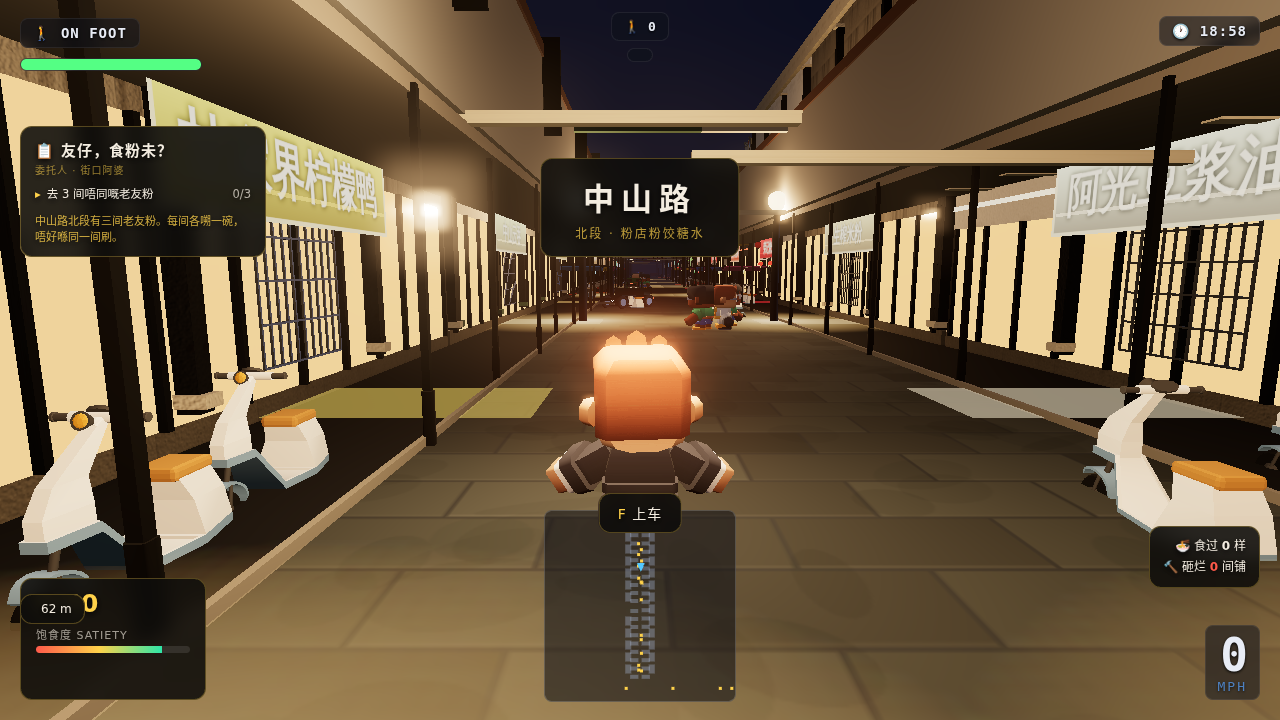
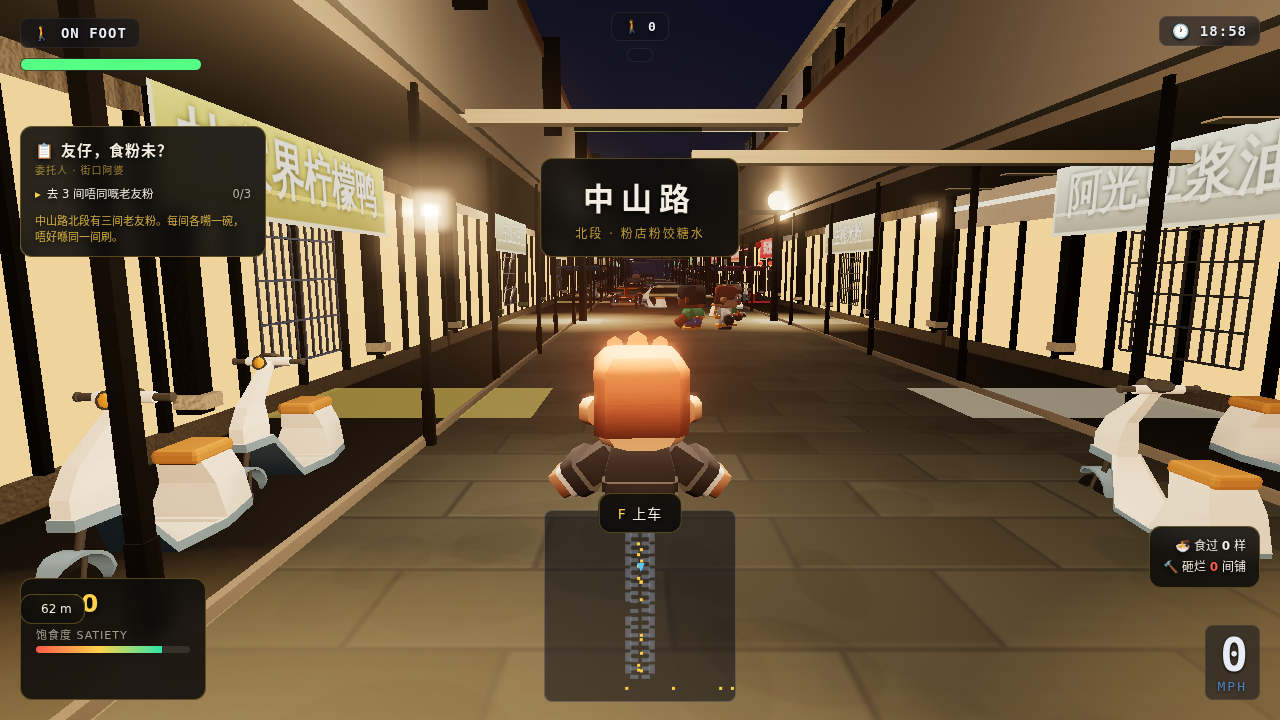
Put the driver in the car, the scooters along the street, and space the crowd
The review rejected the traffic and the carjacking pictures again, and each of
its four complaints had a real cause behind it.

The scooter was parked across the street. A scooter is nearly two metres long;
laid across the carriageway it reached from the columns to the shopfronts,
and its handlebars were inside the columns. They are parked along the street
now, under the arcade, on the raised pavement — the walkway is a step up from
the carriageway, and a scooter standing with its wheels in that step is a
scooter floating.

The driver was not sitting. The rig's mixer was only ever advanced by update(),
and update() was only called while the character was on foot, so the driving
pose was selected and then never played: the rig stood in the bind pose
inside the car for as long as you drove. There is a tick() now, for advancing
the mixer without changing the clip.

And the pose it should play is not 'drive' — in this model 'drive' is a
leaning-forward run. The model also ships 'wheelchair-sit', which is the one
with the hips in a chair and the legs forward. A car seat is a chair.

The glasshouse is glass. It was a near-black metallic material with no
environment to reflect, which rendered as a black slab: every car on the
street read as an unfinished box, and the driver read as a head embedded in
the bodywork. It is tinted and actually transparent now, so you can see the
person sitting behind the windscreen. The near-black paint is out of the
[…]

diff --git a/src/nanning/scenery.ts b/src/nanning/scenery.ts
@@ -553,26 +553,28 @@ async function mountPolyLanterns(scene: THREE.Scene, city: NanningCity): Promise
  */
 async function mountPolyEbikes(scene: THREE.Scene, city: NanningCity): Promise<void> {
   const WARM = new Set(['fuji', 'zhongshan-fenjiao', 'rongji', 'hengzhou']);
-  const spots: { x: number; z: number; heading: number }[] = [];
+  const spots: { x: number; z: number; heading: number; y?: number }[] = [];
+  // Parked along the street, not across it. A scooter is nearly two metres
+  // long: laid across the carriageway it reached from the columns to the
+  // shopfronts, and its handlebars were inside the columns.
+  const heading = Math.PI / 2;
+  // Under the arcade, clear of the columns, on the raised pavement.
+  const PARK_X = STREET_HALF + 0.95;
+  const PARK_Y = ARCADE_RAISE;
   for (const unit of city.shops) {
     if (!WARM.has(unit.def.id) || unit.nightOnly) continue;
-    // Kerb on the same side as the shop (nx points from shop into the street,
-    // so -nx * STREET_HALF is the near kerb).
-    const x = -unit.nx * (STREET_HALF + 1.15);
-    // Parked along +Z; flip 180° on the west kerb so noses face the same way.
-    const heading = unit.nx < 0 ? Math.PI / 2 : -Math.PI / 2;
-    spots.push({ x, z: unit.z - 1.1, heading });
-    spots.push({ x, z: unit.z + 1.1, heading });
+    // The same side as the shop: nx points from the shop into the street, so
+    // -nx is the near kerb.
+    const x = -unit.nx * PARK_X;
+    spots.push({ x, z: unit.z - 1.1, heading, y: PARK_Y });
+    spots.push({ x, z: unit.z + 1.1, heading, y: PARK_Y });
   }
-  // Extra pairs along both kerbs so mid-street night framing is not empty.
+  // Extra pairs along both sides so mid-street framing is not empty.
   for (const side of [-1, 1] as const) {
-    // Under the arcade, not in the traffic lane: the columns are at the
-    // kerb line and a scooter parked at the kerb was standing inside them.
-    const x = side * (STREET_HALF + 1.15);
-    const heading = side > 0 ? Math.PI / 2 : -Math.PI / 2;
+    const x = side * PARK_X;
     for (let z = STREET_Z0 + 25; z < STREET_Z1 - 25; z += 45) {
-      spots.push({ x, z: z - 0.9, heading });
-      spots.push({ x, z: z + 0.9, heading });
+      spots.push({ x, z: z - 0.9, heading, y: PARK_Y });
+      spots.push({ x, z: z + 0.9, heading, y: PARK_Y });
     }
   }
   await addPolyEbikes(scene, spots);

diff --git a/src/render/vehicleBody.ts b/src/render/vehicleBody.ts
@@ -247,10 +247,18 @@ export function makeCarBody(color: number, shapeId: BodyShape = 'sedan'): BodyMe
   const S = SHAPES[shapeId] ?? SHAPES.sedan;
   const group = new THREE.Group();
   const paint = new THREE.MeshStandardMaterial({ color, roughness: 0.28, metalness: 0.55 });
-  // Tinted glass, not black metal. A near-black metallic greenhouse with no
-  // environment to reflect renders as a black slab, which is what made every
-  // car on the street read as an unfinished box.
-  const glass = new THREE.MeshStandardMaterial({ color: 0x38505f, roughness: 0.22, metalness: 0.3 });
+  // Tinted glass, and actually glass. A near-black metallic greenhouse with
+  // no environment to reflect renders as a black slab — which is what made
+  // every car on the street read as an unfinished box, and what made the
+  // driver look like a head embedded in the bodywork instead of a person
+  // sitting behind a windscreen.
+  const glass = new THREE.MeshStandardMaterial({
+    color: 0x6d8ea3,
+    roughness: 0.12,
+    metalness: 0.1,
+    transparent: true,
+    opacity: 0.42,
+  });
   const headMat = new THREE.MeshStandardMaterial({ color: 0xfff3d6, emissive: 0xffe6b0, emissiveIntensity: 2.4 });
   const tailMat = new THREE.MeshStandardMaterial({ color: 0x4a0d10, emissive: 0xff2020, emissiveIntensity: 1.8 });
   const chrome = new THREE.MeshStandardMaterial({ color: 0xc4c8cc, roughness: 0.3, metalness: 0.85 });

diff --git a/src/main.ts b/src/main.ts
@@ -446,7 +446,7 @@ const MAX_HEALTH = 100;
 // a sitting-on-the-ground pose — head down by the hips — so it cannot be a
 // car seat: the driver's head ended up at the car's belt line, buried in the
 // bodywork. The model also ships a 'drive' clip, which is the one for this.
-const SEAT_Y = 0.3;
+const SEAT_Y = 0.1;
 const HIT_SPEED = 3; // m/s a car must exceed to injure a pedestrian
 const DAMAGE_PER_SPEED = 5; // health lost per m/s of impact
 const KNOCKBACK = 1.6;
@@ -990,7 +990,14 @@ function render(alpha: number, frameDt: number): void {
     if (ridingPose) {
       // The procedural fallback rig has no clip library, so it has nothing to
       // drive with — only the Kenney clip character does.
-      clipRig?.play('drive', 0.25);
+      //
+      // 'drive' in this model is a leaning-forward run, not a seat. The model
+      // also ships 'wheelchair-sit', which is the one with the legs forward
+      // and the hips in a chair — a car seat is a chair.
+      clipRig?.play('wheelchair-sit', 0.25);
+      // And the mixer has to be advanced: the rig is not updated while the
+      // player is driving, so the pose was chosen and then never played.
+      clipRig?.tick(frameDt);
     } else {
       liveRig.update(player.speed, frameDt, {
         state: player.state === 'air' ? 'air' : player.state,

diff --git a/src/characters/clipRig.ts b/src/characters/clipRig.ts
@@ -43,6 +43,15 @@ const LOCOMOTION = ['idle', 'walk', 'sprint', 'jump', 'fall', 'sit', 'drive', 'd
 export interface ClipCharacter extends CharacterRig {
   /** Cross-fade to a clip immediately, ignoring the locomotion mapping. */
   play(name: string, fade?: number): void;
+  /**
+   * Advance the mixer without changing the clip.
+   *
+   * `update()` was the only thing that ticked the mixer, and it was only
+   * called when the character was on foot — so the driving pose was selected
+   * and then never played: the rig stood in the bind pose inside the car for
+   * as long as you drove.
+   */
+  tick(dt: number): void;
   /** 0..1 through the current one-shot clip, for a deterministic capture. */
   setOneShot(name: OneShot | null, progress: number): void;
   setMixerTime(t: number, freeze?: boolean): void;
@@ -154,6 +163,10 @@ export function createClipCharacter(
     clips,
     update,
     play: (name: string, fade = FADE) => crossFadeTo(name, fade),
+    tick: (dt: number) => {
+      if (!mixer || frozen) return;
+      mixer.update(Math.min(dt, 0.05));
+    },
     setMixerTime: (t: number, freeze = true) => {
       if (!mixer) return;
       frozen = freeze;

diff --git a/src/render/polyProps.ts b/src/render/polyProps.ts
@@ -129,7 +129,7 @@ export async function addPolyLanterns(
  */
 export async function addPolyEbikes(
   scene: THREE.Scene,
-  spots: { x: number; z: number; heading: number }[],
+  spots: { x: number; z: number; heading: number; y?: number }[],
 ): Promise<number> {
   const tmpl = await preloadPolyEbike();
   if (!tmpl) return 0;
@@ -137,7 +137,9 @@ export async function addPolyEbikes(
   root.name = 'nn-poly-ebikes';
   for (const s of spots) {
     const clone = tmpl.clone(true);
-    clone.position.set(s.x, 0, s.z);
+    // The covered walkway is a step up from the carriageway, so a scooter
+    // parked under it stands on that step — not with its wheels in it.
+    clone.position.set(s.x, s.y ?? 0, s.z);
     clone.rotation.y += s.heading;
     root.add(clone);
   }

diff --git a/src/systems/Vehicles.ts b/src/systems/Vehicles.ts
@@ -60,7 +60,9 @@ interface Car {
 }
 
 const PLAYER_COLOR = 0x10a0c8;
-const TRAFFIC_COLORS = [0xb23a3a, 0x3a6db2, 0xd9b44a, 0x4ab36a, 0xcccccc, 0x2a2a2a, 0xc06a2a];
+// No near-black: with a dark glasshouse, a black car is a black slab. The
+// palette is light enough that every car on the street reads as a car.
+const TRAFFIC_COLORS = [0xb23a3a, 0x3a6db2, 0xd9b44a, 0x4ab36a, 0xcccccc, 0x9aa0a6, 0xc06a2a, 0x7a5fb0];
 
 const CAR_RADIUS = 1.9;
 const LANE_CORRECT = 2.2; // how hard AI steers back to lane centerline

diff --git a/src/nanning/crowd.ts b/src/nanning/crowd.ts
@@ -79,7 +79,7 @@ const GRAVITY = 18;
  * no minimum at all, and the knots came out with people standing inside one
  * another.
  */
-const CROWD_GAP = 0.85;
+const CROWD_GAP = 1.05;
 
 /** Draw a line of text into a rounded bubble sprite. */
 function makeBubble(): THREE.Sprite {
